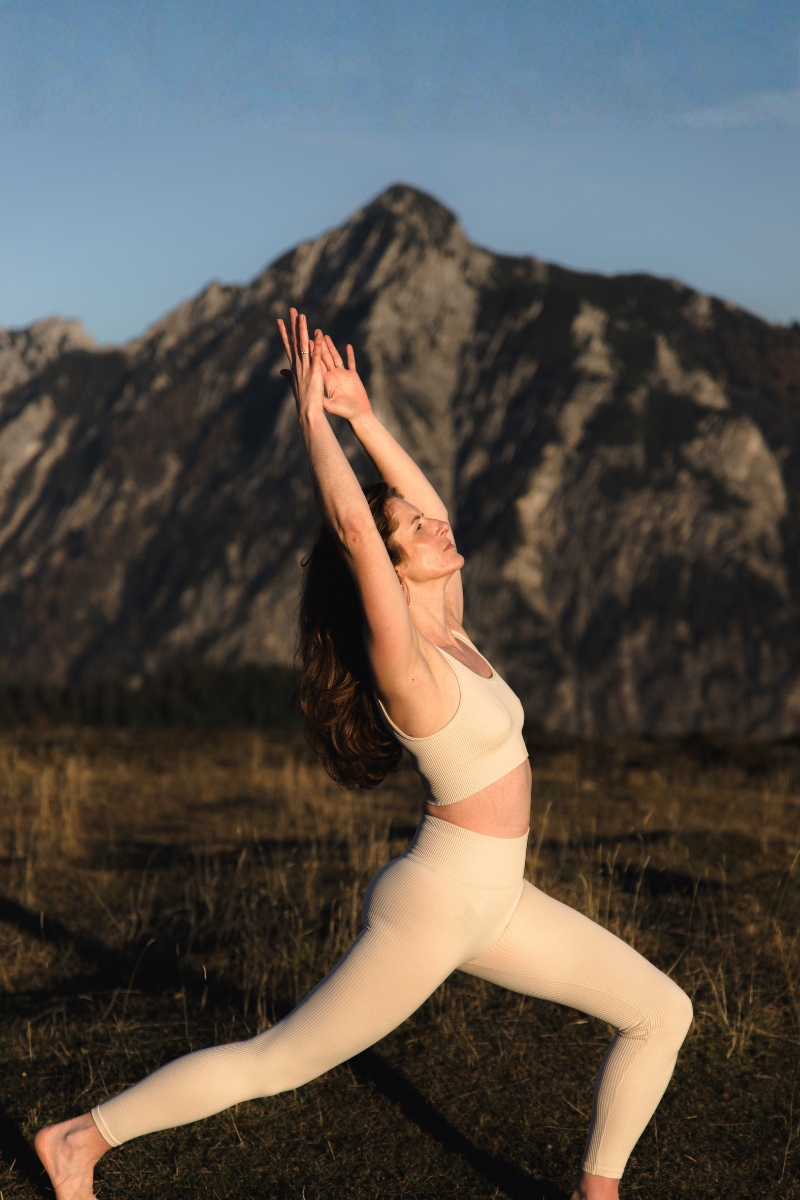
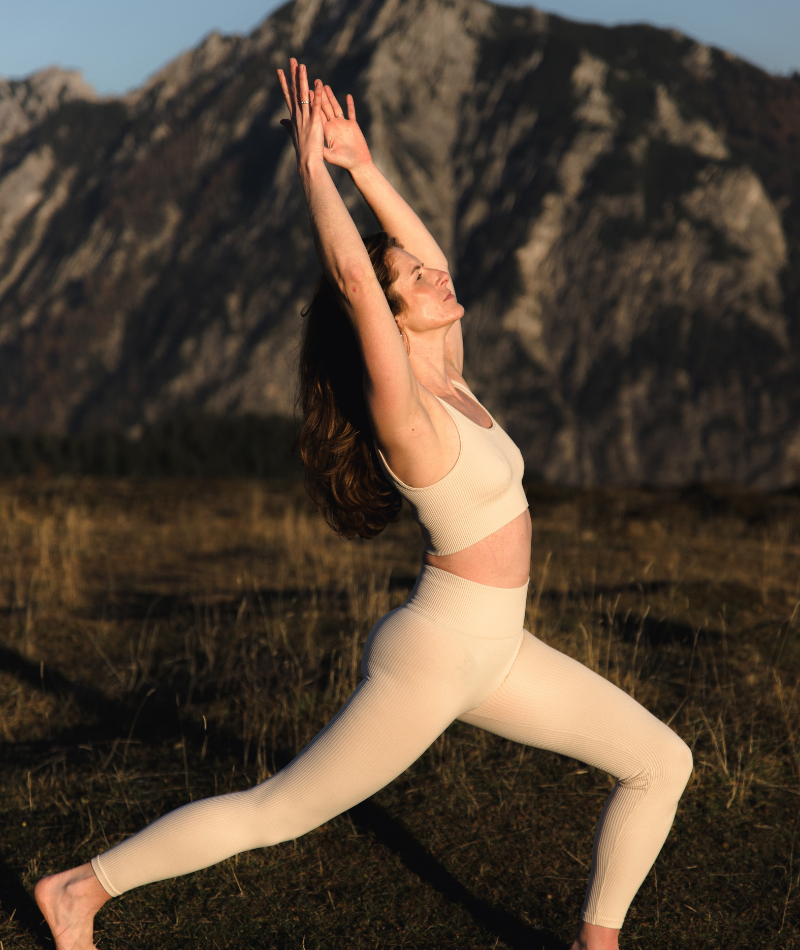
final changes, bild soundbath

diff --git a/index.html b/index.html
@@ -272,7 +272,9 @@
             <div class="offer-slider__layout">
               <div class="offer-slider__col offer-slider__col--text">
                 <h2 class="offer-slider__title section-title">Sound Bath</h2>
-                <p class="offer-slider__text">Bei dieser intensiven Form der Berührung arbeite ich gezielt mit bestimmten Druck- und Muskelpunkten, aber auch mit passiven Dehnungen, wodurch sich Verspannungen lösen und sich die Beweglichkeit verbessern kann.</p>
+                <p class="offer-slider__text">Komm mit auf eine Reise durch Klang und Stille, Schwingung und Nachhall und genieße die wohltuende Wirkung von Klangschalen, Koshis & Co.
+                  Hier findest du Raum für Erholung, Regeneration und Neuausrichtung für dein gesamtes System. Eine Einladung, dich vollständig vom Klang tragen zu lassen und für einen Moment aus dem Denken ins Spüren zu sinken.
+                  </p>
                 <div id="pricing-sound-bath-root"></div>
                 <a href="#kontakt" class="offer-slider__btn btn-img">
                   <img src="Buttons/Button_BlueBlack_Images_Ina.png" alt="">
@@ -281,7 +283,7 @@
               </div>
               <div class="offer-slider__col offer-slider__col--image offer-slider__col--image-right">
                 <div class="offer-slider__image-wrap">
-                  <img src="images/Angebote_3_Image_Ina.png" alt="Sound Bath" class="offer-slider__image offer-slider__image--left">
+                  <img src="images/Angebote_4_Image_Ina.png" alt="Sound Bath" class="offer-slider__image offer-slider__image--left">
                 </div>
                 <button type="button" class="offer-slider__nav-btn" id="sound-bath-next" aria-label="Was dich erwartet">
                   <span class="offer-slider__nav-text">WAS DICH<br>ERWARTET?</span>
@@ -298,7 +300,7 @@
             <div class="offer-slider__layout">
               <div class="offer-slider__col offer-slider__col--image offer-slider__col--image-left">
                 <div class="offer-slider__image-wrap">
-                  <img src="images/Angebote_3_Image_Ina.png" alt="Sound Bath" class="offer-slider__image offer-slider__image--right">
+                  <img src="images/Angebote_4_Image_Ina.png" alt="Sound Bath" class="offer-slider__image offer-slider__image--right">
                 </div>
                 <button type="button" class="offer-slider__nav-btn" id="sound-bath-prev" aria-label="Zurück">
                   <span class="offer-slider__nav-text">ZURÜCK</span>
@@ -309,7 +311,8 @@
                 <div class="offer-slider__title-wrap">
                   <h2 class="offer-slider__title section-title">Sound Bath</h2>
                 </div>
-                <p class="offer-slider__text">Du brauchst absolut nichts zu tun, außer dich vertrauensvoll in die Bewegung hineinzuentspannen. Ich arbeite achtsam, langsam und genau auf deinen Körper abgestimmt – so entsteht ein Raum für mentale Ruhe und körperliche Freiheit. Jede Einheit ist dabei so individuell wie du selbst.</p>
+                <p class="offer-slider__text">Die Klänge wirken entspannend auf deine Muskeln und dein Nervensystem, können Stress senken und erzeugen ein Gefühl tiefer Ruhe.
+                  Sanfte Schwingungen füllen den Raum und sind nicht nur hörbar, sondern auch körperlich spürbar. Die Klänge wirken wie Wellen, die dich Schicht für Schicht nach innen begleiten – dorthin, wo Ruhe, Klarheit und Verbindung wieder greifbar werden.</p>
                 <a href="#kontakt" class="offer-slider__btn btn-img">
                   <img src="Buttons/Button_BlueBlack_Images_Ina.png" alt="">
                   <span>SOUND BATH BUCHEN</span>
@@ -521,7 +524,7 @@
     <section class="contact" id="kontakt">
       <div class="contact__inner">
         <h2 class="contact__title section-title">Kontakt</h2>
-        <p class="contact__subline">Ich freue mich auf deine Nachricht!</p>
+        <p class="contact__subline">Ich freue mich auf <br> deine Nachricht!</p>
         <p class="contact__intro">Gerne beantworte ich deine persönlichen Anfragen für maßgeschneiderte Kurse oder vielseitige Impulse (Workshops).</p>
         <div class="contact__info">
           <a href="tel:+4369919112175" class="contact__item">

diff --git a/firmenyoga.html b/firmenyoga.html
@@ -158,13 +158,13 @@
       <div class="firmenyoga-ausgleich__inner">
         <div class="firmenyoga-ausgleich__row">
           <div class="firmenyoga-ausgleich__cta">
-            <p class="firmenyoga-ausgleich__quote section-title">Bereit für dein Team?</p>
+            <p class="firmenyoga-ausgleich__quote section-title">Mehr Bewegung für dein Team?</p>
             <a href="#kontakt" class="firmenyoga-ausgleich__btn btn-img" aria-label="Kontaktiere mich">
               <img src="Buttons/Button_Violet_Images_Ina.png" alt="">
               <span>KONTAKTIERE MICH</span>
             </a>
           </div>
-          <img src="images/Ausgleich_Image_Ina.png" alt="Yoga Ausgleich" class="firmenyoga-ausgleich__image">
+       
         </div>
       </div>
       <div class="wavy-divider wavy-divider--yellow-dark" aria-hidden="true">
@@ -243,7 +243,7 @@
     <section class="contact" id="kontakt">
       <div class="contact__inner">
         <h2 class="contact__title section-title">Kontakt</h2>
-        <p class="contact__subline">Ich freue mich auf deine Nachricht!</p>
+        <p class="contact__subline">Ich freue mich auf <br> deine Nachricht!</p>
         <p class="contact__intro">Gerne beantworte ich deine persönlichen Anfragen für maßgeschneiderte Kurse oder vielseitige Impulse (Workshops).</p>
         <div class="contact__info">
           <a href="tel:+4369919112175" class="contact__item">

diff --git a/ueber-mich.html b/ueber-mich.html
@@ -95,9 +95,7 @@
         <div class="about-text__grid">
           <div class="about-text__header">
             <h2 class="about-text__title section-title">Mein Stil</h2>
-            <div class="about-text__image-wrap">
-              <img src="images/MeinStil_Image_Ina.png" alt="Mein Stil – Ina" class="about-text__image">
-            </div>
+       
           </div>
           <div class="about-text__content">
             <p class="about-text__text">Hier bei mir findest du Raum, in dem du einfach du selbst sein darfst. Einen Ort, an dem du deine Gefühle spüren, deinen Körper wahrnehmen und ganz bei dir ankommen kannst. Ich begleite dich mit Achtsamkeit, Klarheit und einem offenen Herzen. Mir ist es wichtig, eine kleine Oase zu schaffen, in der du dich fallen lassen kannst und der Alltag für einen Moment in den Hintergrund rückt.</p>
@@ -228,7 +226,7 @@
     <section class="contact" id="kontakt">
       <div class="contact__inner">
         <h2 class="contact__title section-title">Kontakt</h2>
-        <p class="contact__subline">Ich freue mich auf deine Nachricht!</p>
+        <p class="contact__subline">Ich freue mich auf <br>deine Nachricht!</p>
         <p class="contact__intro">Gerne beantworte ich deine persönlichen Anfragen für maßgeschneiderte Kurse oder vielseitige Impulse (Workshops).</p>
         <div class="contact__info">
           <a href="tel:+4369919112175" class="contact__item">